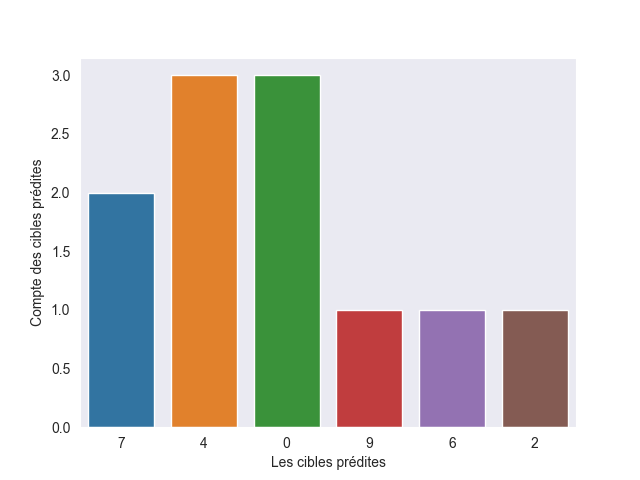
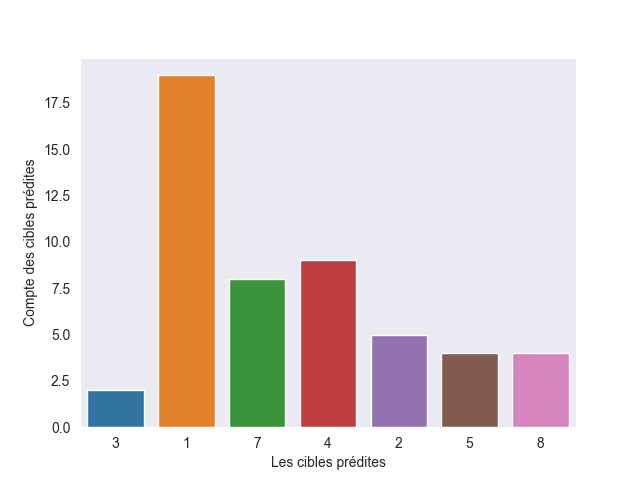
fix problem id

diff --git a/Application/bdd_2_tables.py b/Application/bdd_2_tables.py
@@ -77,35 +77,34 @@ def send_sql_table_2_tables(index:int, test=x_test, model=model):
     cursor.execute("SELECT id FROM images WHERE id=%s", (index,))
     result = cursor.fetchone()
     
-    # Si l'id n'est pas présent, on envoie les données dans la BDD.
-    if result is None:
-        
-        # Mise en place des colonnes et valeur à insérer.
-        columns_table=[]
-        for i in range(len(features)):
-            columns_table.append(f"feature_{i}")
-        columns_table.insert(0, "id")
-        
-        values_table=[]
-        for i in features:
-            values_table.append(str(i))
-        values_table.insert(0, str(index))
-        
-        # Insertion des features dans la table images
-        sql = f"INSERT INTO images ({', '.join(columns_table)}) VALUES ({', '.join(['%s' for i in range(785)])})"
-        cursor.execute(sql, values_table)
-        
-        # Insertion des résultats dans la table predictions.
-        v=random.randint(0,10)
-        columns_table = ["y_true", "y_pred", "image_id"]
-        values_table = [v, str(prediction.item()), str(index)]
-        sql = f"INSERT INTO predictions ({', '.join(columns_table)}) VALUES ({', '.join(['%s' for i in range(3)])})"
-        cursor.execute(sql, values_table)
-        
-        conn.commit()
-        conn.close()
-    else:
-        pass
+    # On génère code id unique
+    code_id = "".join([str(random.randint(0, 30)) for _ in range(5)])  
+    
+    # Mise en place des colonnes et valeur à insérer.
+    columns_table=[]
+    for i in range(len(features)):
+        columns_table.append(f"feature_{i}")
+    columns_table.insert(0, "id")
+    
+    values_table=[]
+    for i in features:
+        values_table.append(str(i))
+    values_table.insert(0, str(code_id))
+    
+    # Insertion des features dans la table images
+    sql = f"INSERT INTO images ({', '.join(columns_table)}) VALUES ({', '.join(['%s' for i in range(785)])})"
+    cursor.execute(sql, values_table)
+    
+    # Insertion des résultats dans la table predictions.
+    # pour l'instant on met une valeur arbitraire (v)
+    v=random.randint(0, 10)
+    columns_table = ["y_true", "y_pred", "image_id"]
+    values_table = [v, str(prediction.item()), code_id]
+    sql = f"INSERT INTO predictions ({', '.join(columns_table)}) VALUES ({', '.join(['%s' for i in range(3)])})"
+    cursor.execute(sql, values_table)
+    
+    conn.commit()
+    conn.close()
     return prediction
 
 

diff --git a/Application/librairie.py b/Application/librairie.py
@@ -13,8 +13,6 @@ import tensorflow as tf
 from tensorflow import keras
 from bdd_2_tables import send_sql_table_2_tables
 
-
-
 # =========================== Utilitaires ====================================>
 
 # Import de la data.
@@ -128,16 +126,14 @@ def column_picture():
     col1, col2, col3 = st.columns(3)
     finish=False
     with col1:
-        for i in range(195, 199):
-            print_image(index=i)
-            # st.write(f"image id : {i}")
-            
+        for i in (17, 12, 5):
+            print_image(index=i)            
             if st.button("prédire", key=i):
                 pred = send_sql_table_2_tables(index=i)
                 finish=True
                 
     with col2:
-        for i in range(110, 114):
+        for i in (0, 10, 44):
             print_image(index=i)
             # st.write(f"image id : {i}")
             
@@ -146,7 +142,7 @@ def column_picture():
                 finish=True
     
     with col3:
-        for i in range(490, 494):
+        for i in (4, 50, 2):
             print_image(index=i)
             # st.write(f"image id : {i}")
             

diff --git a/Application/pages/data.py b/Application/pages/data.py
@@ -27,7 +27,7 @@ def page_bdd():
         st.error("Base de données vide !")
     else:
         df_final = table_predictions.merge(table_images, left_on='image_id', right_on='id')
-        df_final = df_final.drop(["id_x", "id_y"], axis=1)
+        df_final = df_final.drop(["id_x", "id_y","image_id"], axis=1)
         st.write(df_final.head())
         data=True
         
@@ -50,15 +50,7 @@ def page_bdd():
         st.image('countplot.png')  
 
         # Graphique 2
-        df_final['y_pred'] = pd.to_numeric(df_final['y_pred'])
-        df_final['y_true'] = pd.to_numeric(df_final['y_true'])
-        df_final['prediction_correcte'] = df_final['y_pred'] == df_final['y_true']
-        df_final['prediction_correcte'] = pd.Categorical(df_final['prediction_correcte'], categories=[True, False])
-        st.subheader('Comparaison entre le vrai Y et le Y prédit')
-        fig, ax = plt.subplots()
-        sns.barplot(data=df_final, x="y_pred", y="y_true", hue="prediction_correcte", ax=ax)
-        ax.legend(title="Prédiction correcte")
-        st.pyplot(fig)
+        # ...
     
         
     else:
